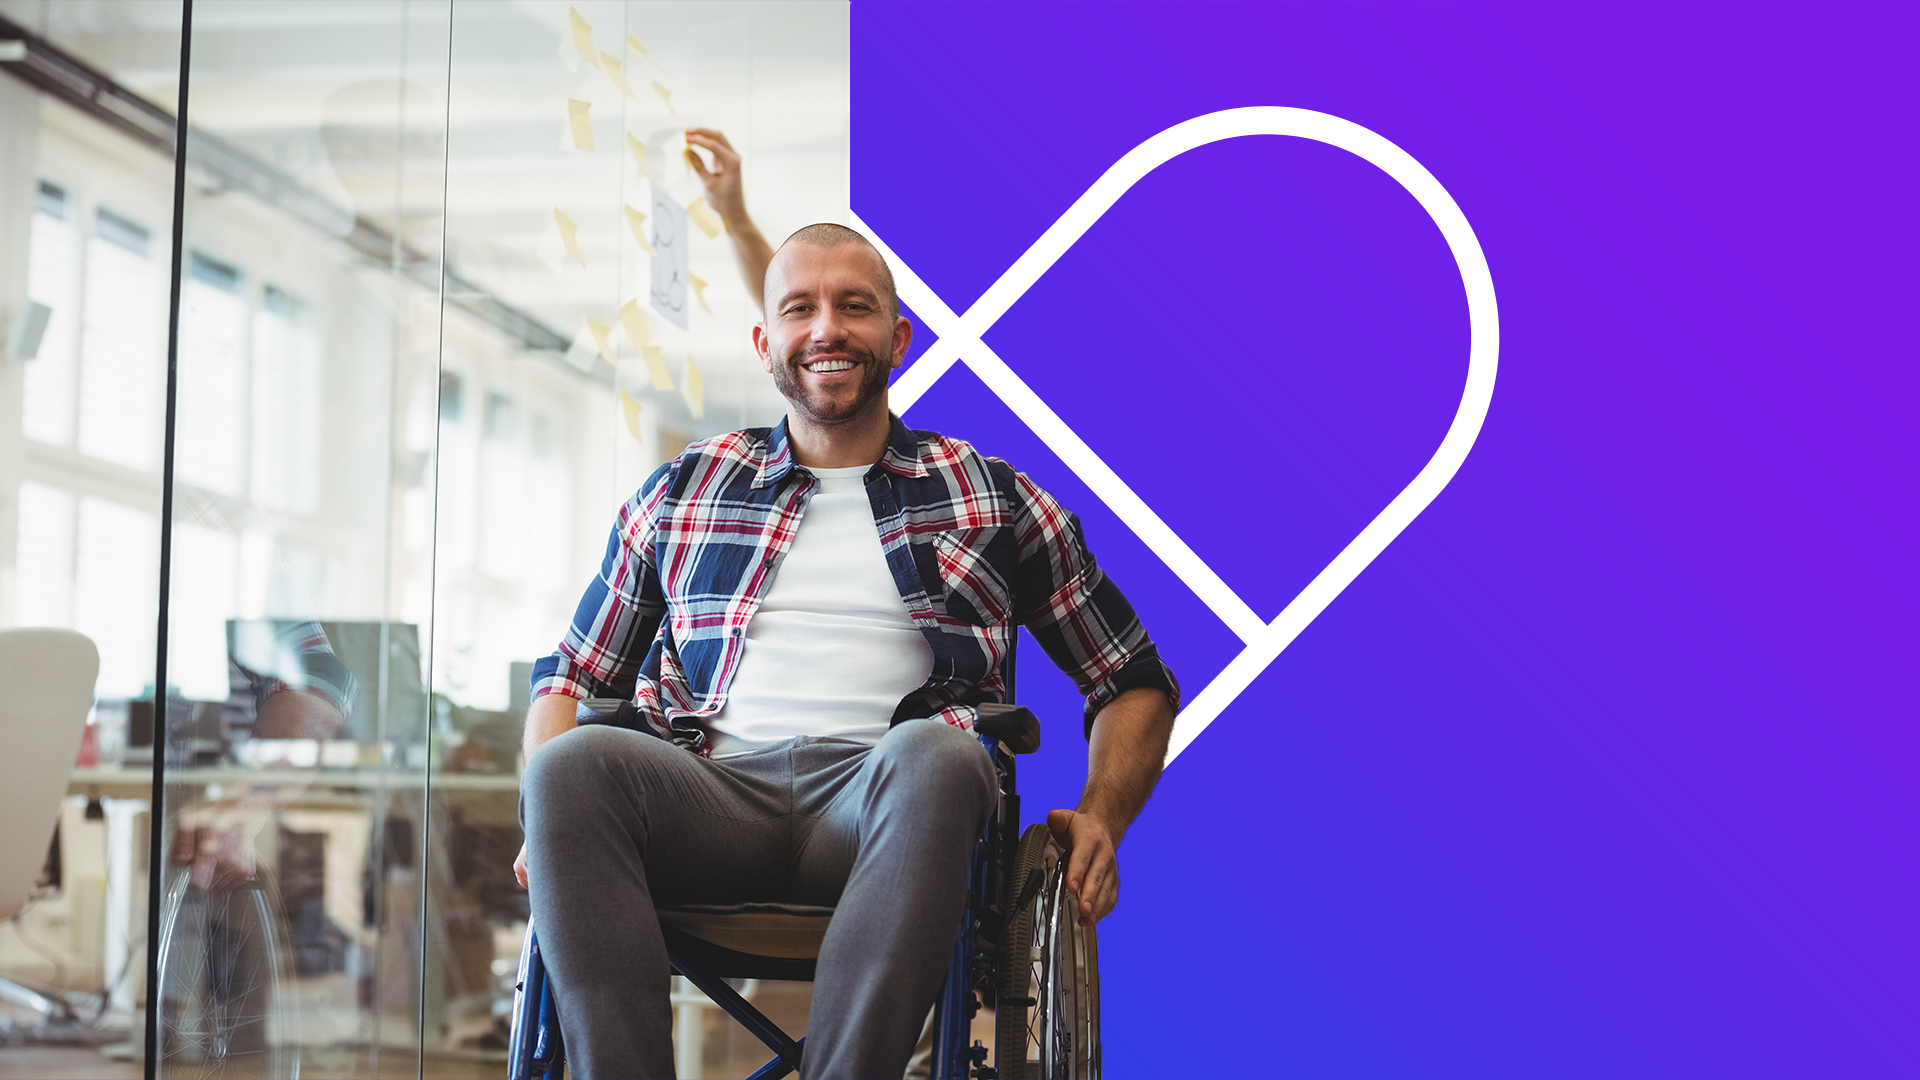
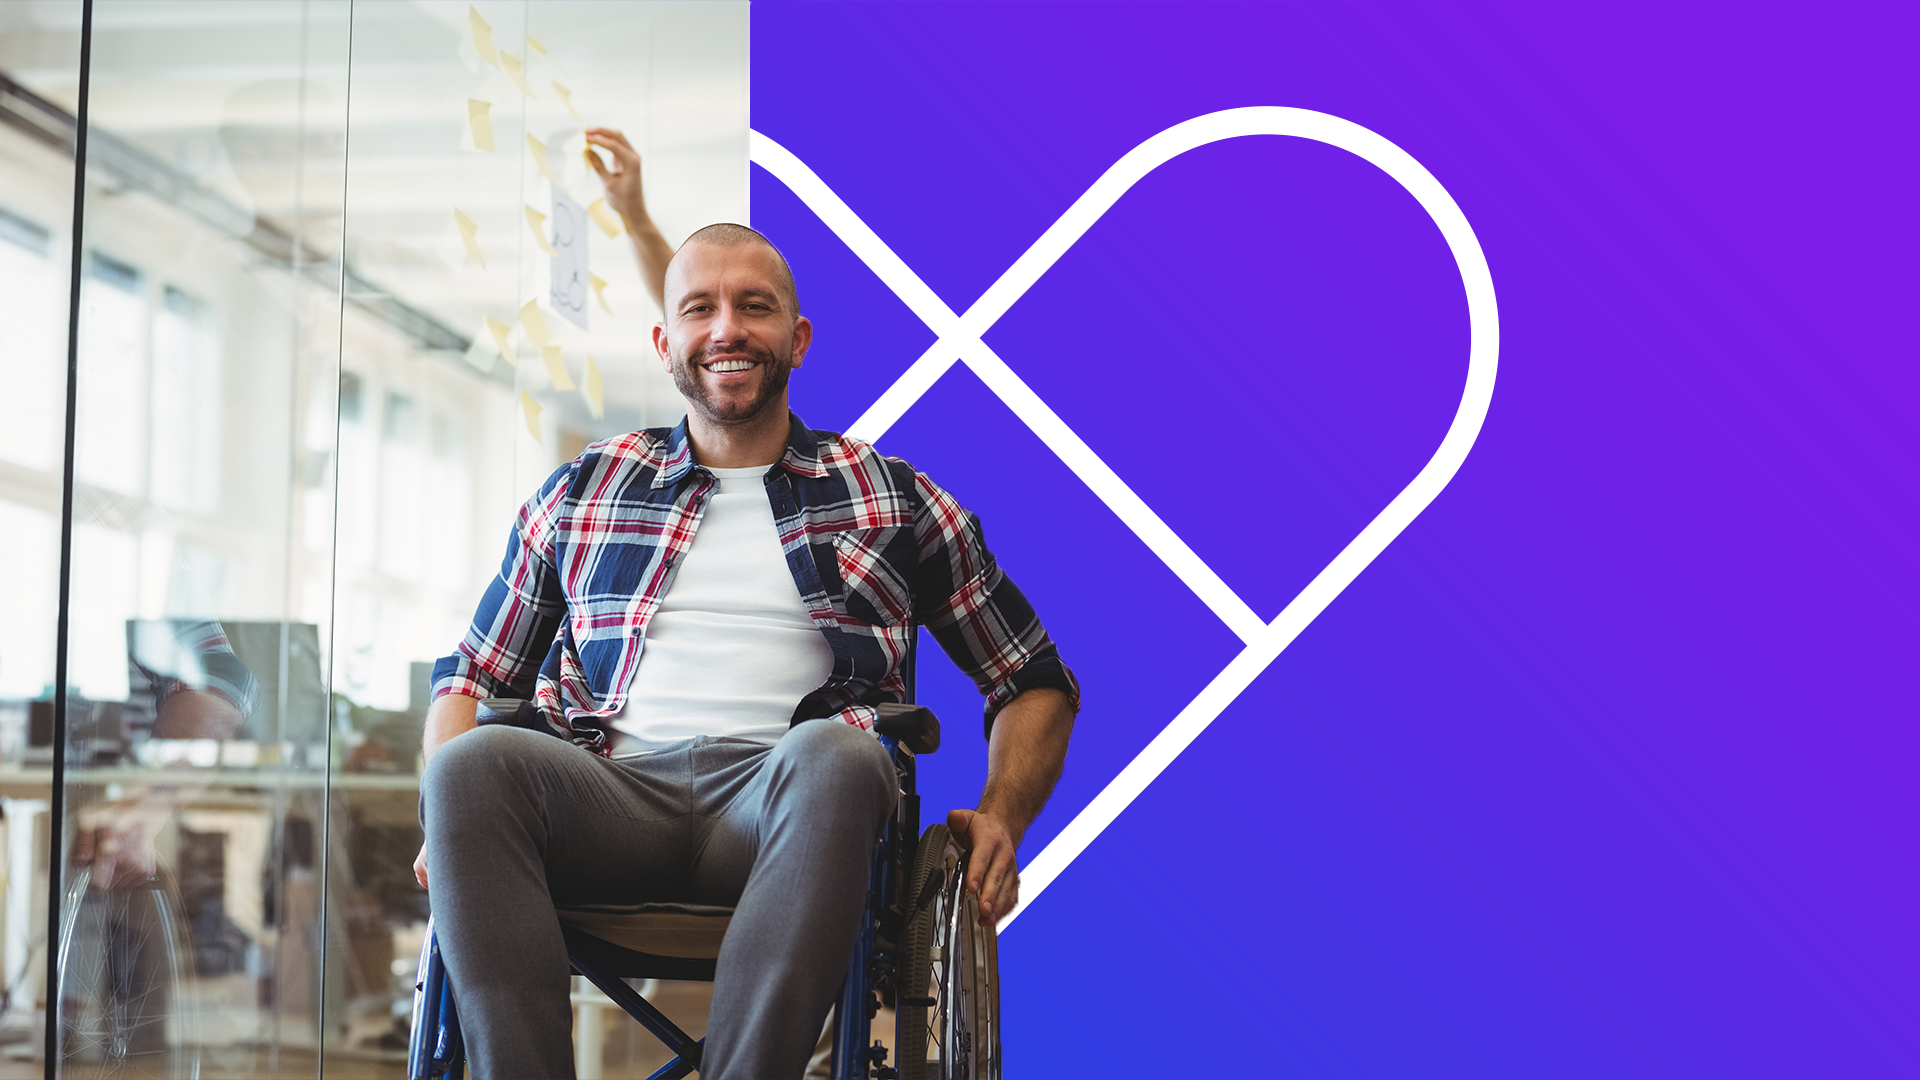
Adjusting layout of background

diff --git a/styles_experimental.css b/styles_experimental.css
@@ -283,14 +283,14 @@ a, a:link, a:visited {
 }
 /* Login Page */
 #page-login-index #region-main {
-	background: #1548e0 url(https://github.com/Skeksalot/UpSkillage/raw/master/Generic_Resources/Canvas_Login_Back.png);
+	background: #1548e0 url(https://github.com/Skeksalot/UpSkillage/raw/master/Generic_Resources/backgrounds/login_1.png) center/cover no-repeat;
 	position: absolute;
 	z-index: 12345;
 	top: 0;
 	height: 100%;
 }
 div.loginbox {
-	margin: 15% 0 0 55%;
+	margin: 25vh 0 0 55vw;
 	border: none;
 }
 /* Top Navbar */
@@ -957,7 +957,7 @@ div#tileoutlinearea a, div#tileoutlinearea a:link, div#tileoutlinearea a:visited
 	color: #2c2c36;
 }
 .tile a:hover .tiletopic {
-	background: rgba(44,44,54,1);
+	background: rgba(44,44,54,1); 
 }
 .section .activity .editing_move {
 	z-index: 2;
